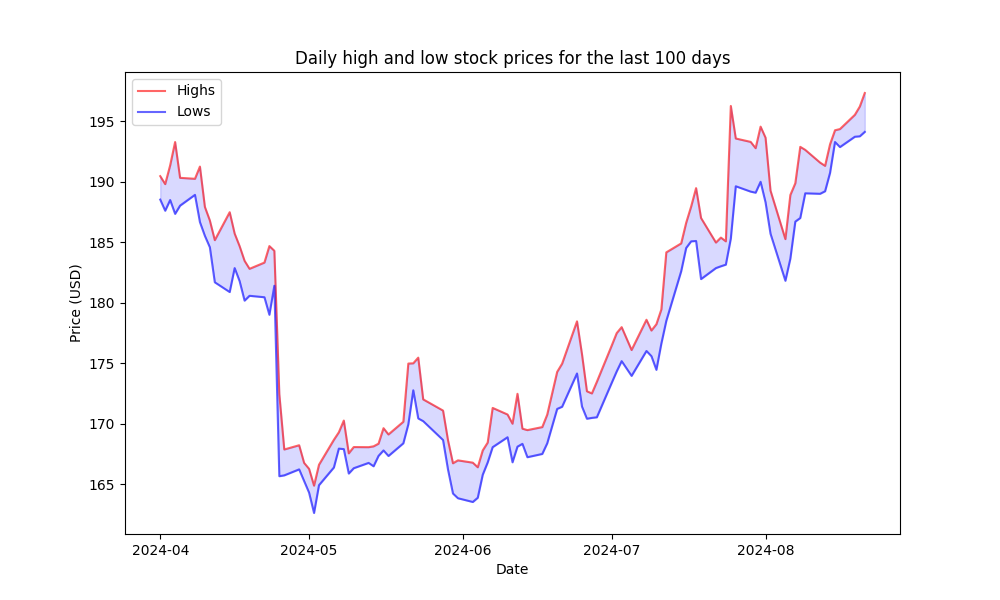
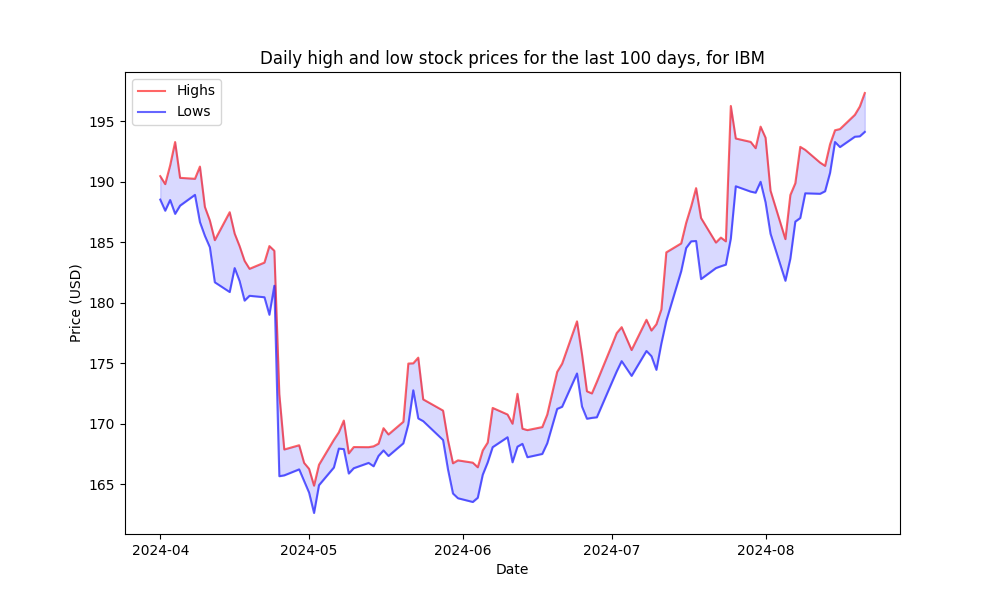
snazzy

Changed region(s): [[0.248, 0.06, 0.775, 0.12]]

diff --git a/task-3/stock_calculator/templates/dashboard_2.html b/task-3/stock_calculator/templates/dashboard_2.html
@@ -7,18 +7,22 @@
     <link href="https://cdn.jsdelivr.net/npm/bootstrap@5.3.3/dist/css/bootstrap.min.css" rel="stylesheet" integrity="sha384-QWTKZyjpPEjISv5WaRU9OFeRpok6YctnYmDr5pNlyT2bRjXh0JMhjY6hW+ALEwIH" crossorigin="anonymous">
 </head>
 <body>
-    <div class="container">
-        <h3>Stock Graph for the Last 100 Days</h3>
-        <form class="form" method="GET" action="{% url 'graph' %}">
-            <div class="row mb-3">
-                <label for="symbol" class="col-sm-5 col-form-label alert alert-primary">Stock Symbol</label>
-                <div class="col-sm-4">
-                    <input type="text" class="form-control" id="symbol" name="symbol">
+    <div class="container p-4">
+        
+        <div class="row mt-4 justify-content-md-center p-4">
+            <h3 class="mt-4 p4" style="margin-left: 20px;">Stock Graph for the Last 100 Days</h3>
+            <form class="form mt-4 card p-4 col-6" method="GET" action="{% url 'graph' %}">
+                <div class="row mb-3">
+                    <label for="symbol" class="col-sm-5 col-form-label alert alert-primary">Stock Symbol</label>
+                    <div class="col-sm-4">
+                        <input type="text" class="form-control" id="symbol" name="symbol">
+                    </div>
                 </div>
-            </div>
-            <button class="btn btn-primary  button" type="submit">Generate</button>
-        </form>
-    <img src="static/plot.png">
-</div>
+                <button class="btn btn-primary  button" type="submit">Generate</button>
+            </form>
+
+             <img src="static/plot.png">
+        </div>
+    </div>
 </body>
 </html>

diff --git a/task-3/stock_calculator/views.py b/task-3/stock_calculator/views.py
@@ -11,7 +11,7 @@ def dashboard(request):
         date = request.POST.get('date')
         symbol = request.POST.get('name')
 
-        api_key = '6BRPDCS4W0TGFI6S'
+        api_key = 'T7O764S8PYFGLDRK'
 
         if not amount or not date:
             error_message = "Both amount and date fields are required."
@@ -47,6 +47,7 @@ def dashboard(request):
         latest_open_stock_value = latest_time_series[latest_date]['1. open']
 
         difference = (float(latest_open_stock_value) * fraction_of_stock) - float(amount)
+        difference = float("{:.2f}".format(round(difference, 2)))
         if difference >= 0:
             output_data = f"You gained £{abs(difference)}."
         else:
@@ -60,13 +61,13 @@ def dashboard(request):
 
 
 def graph(request):
-    api_key = '6BRPDCS4W0TGFI6S'
+    api_key = 'T7O764S8PYFGLDRK'
 
-    symbol = request.GET.get('symbol') or 'IBM'
-    
-    url = f'https://www.alphavantage.co/query?function=TIME_SERIES_DAILY_ADJUSTED&symbol={symbol}&apikey={api_key}'
+    symbol = request.GET.get('symbol')
+    if symbol is None:
+        symbol = 'IBM'
+    url = f'https://www.alphavantage.co/query?function=TIME_SERIES_DAILY_ADJUSTED&symbol={symbol}&apikey=demo'
     r = requests.get(url)
-
     dis_data = r.json()
 
 
@@ -85,7 +86,7 @@ def graph(request):
     plt.fill_between(dis_dates, highs, lows, color='blue', alpha=0.15)
 
     # Set plot title and labels
-    plt.title("Daily high and low stock prices for the last 100 days")
+    plt.title(f"Daily high and low stock prices for the last 100 days, for {symbol}")
     plt.xlabel('Date')
     plt.ylabel('Price (USD)')
     plt.legend()
